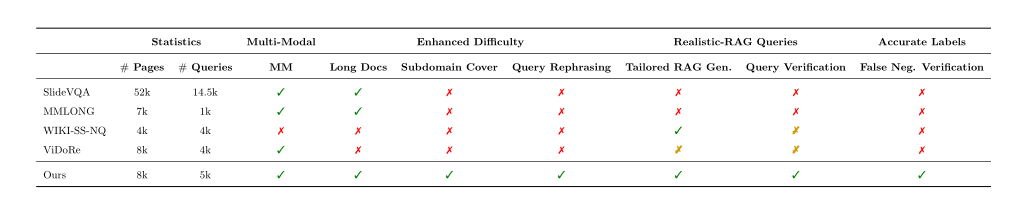
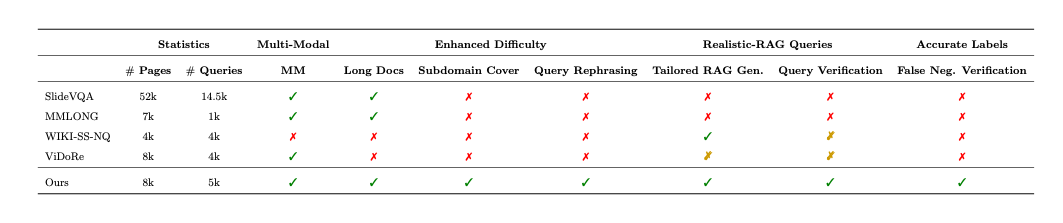
12

diff --git a/index.html b/index.html
@@ -199,7 +199,7 @@
     <!-- Second Figure: Benchmark Construction Pipeline -->
     <h3 class="section-title">Benchmark Construction Pipeline</h3>
     <img class="resized-image" src="figures/Data_generation_pipeline.png" alt="Benchmark Construction Pipeline">
-    <p>
+    <p class="limited-width">
         Manually creating high-quality benchmarks is time-consuming and error-prone. To address this, we introduce an <b>automated pipeline</b> for generating and verifying queries tailored for <b>Retrieval-Augmented Generation (RAG) evaluation</b>. Our benchmark focuses on <b>long documents</b> with multiple pages from the same sub-domain, ensuring <b>realistic retrieval challenges</b>. The process begins with query generation using a Vision-Language Model (VLM) to create natural user-like questions. These queries are then verified by a Large Language Model (LLM) to filter out those that are too broad, overly specific, or reference exact page locations. To enhance robustness, queries undergo <b>multi-level rephrasing</b> to reduce reliance on exact wording while preserving meaning. Finally, a false negative verification step ensures each query is correctly linked to its relevant pages, preventing errors and filtering out ambiguous cases. The result is a high-quality dataset of document pages, queries, and corresponding answers, designed for robust RAG evaluation.
     </p>
     
